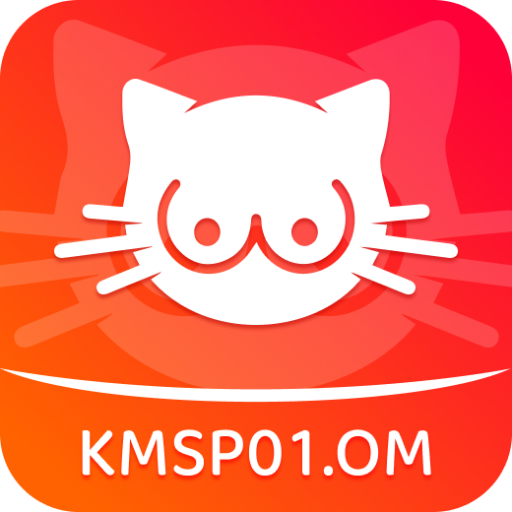
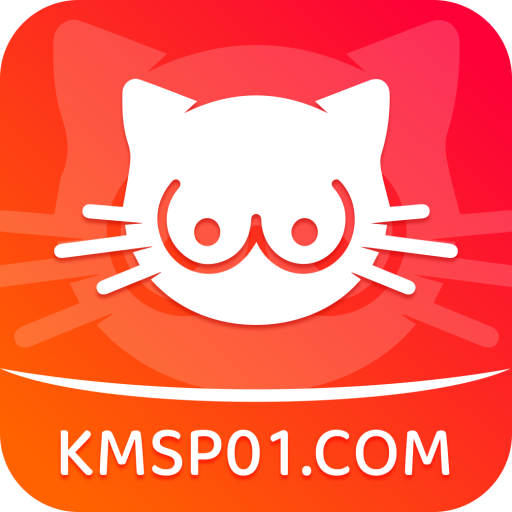
icon更换、分享跳转

Changed region(s): [[0.0938, 0.8125, 0.875, 0.9375]]

diff --git a/lib/app/modules/home/home_mine_center/views/home_mine_center_view.dart b/lib/app/modules/home/home_mine_center/views/home_mine_center_view.dart
@@ -44,100 +44,103 @@ class HomeMineCenterView extends GetView<HomeMineCenterController> {
             body: Stack(alignment: Alignment.topCenter, children: [
               Image.asset(R.assetsImgBgMineTop,
                   width: screen.screenWidth, fit: BoxFit.cover),
-              SingleChildScrollView(
-                  scrollDirection: Axis.vertical,
-                  child: Container(
-                      width: screen.screenWidth,
-                      margin:
-                          EdgeInsets.only(top: screen.paddingTop + Dimens.pt45),
-                      child: Column(children: [
-                        _mineTopUtilsBuilder(logic, theme),
-                        SizedBox(height: Dimens.pt50),
-                        _buildVipButtonView(theme),
-                        SizedBox(height: Dimens.pt30),
-                        _buildMoreUtilsBtnView(),
-                        SizedBox(height: Dimens.pt30),
-                        _buildChangeIconView(logic),
-                        SizedBox(height: Dimens.pt30),
-                        Padding(
-                            padding:
-                                EdgeInsets.symmetric(horizontal: Dimens.pt25),
-                            child: Column(children: [
-                              CoverBanner(
-                                  //广告minSwiperAds
-                                  aspectRatio: 700 / 198,
-                                  radius: Dimens.pt20,
-                                  adsType: AdsType.homeSwiperAds,
-                                  onItemClick: (Advertise model) {
-                                    AppPages.jumpRouter(
-                                        path: model.href, id: model.id);
-                                  }),
-                              SizedBox(height: Dimens.pt30),
-                              Container(
-                                decoration: BoxDecoration(
-                                    color: Colors.white.withOpacity(.05),
-                                    borderRadius:
-                                        BorderRadius.circular(Dimens.pt20)),
-                                child: Column(children: [
-                                  _buildMineUtilsBtnView(
-                                      title: "设置",
-                                      color: AppColors.textColorWhite,
-                                      onTap: () =>
-                                          Get.toNamed(Routes.SETTING_PAGE),
-                                      icon: R.assetsImgIconMineSetting),
-                                  _buildMineUtilsBtnView(
-                                      title: "绑定手机号",
-                                      color: AppColors.textColorWhite,
-                                      desc: "绑定成功送3元彩金！",
-                                      onTap: () => Get.toNamed(
-                                          Routes.BIND_MOBILE_PAGE,
-                                          arguments: {"type": "find"}),
-                                      icon: R.assetsImgIconMinePhone),
-                                  _buildMineUtilsBtnView(
-                                      onTap: () async {
-                                        await M3u8CacheManager().clearCache();
-                                        logic.cacheSize.value = 0;
-                                        showToast(msg: "缓存已清除");
-                                      },
-                                      title: "清除缓存",
-                                      color: AppColors.textColorWhite,
-                                      desc:
-                                          "${logic.cacheSize.toStringAsFixed(2)}MB",
-                                      icon: R.assetsImgIconMineDownload),
-                                  _buildMineUtilsBtnView(
-                                      onTap: () => Get.toNamed(
-                                          Routes.TICKET_MANAGE_PAGE,
-                                          arguments: {"type": 3}),
-                                      color: AppColors.textColorWhite,
-                                      title: "兑换码",
-                                      icon: R.assetsImgIconMineExchange),
-                                  _buildMineUtilsBtnView(
-                                      title: "检查更新",
-                                      color: AppColors.textColorWhite,
-                                      desc: "V${Pubspec.versionFull}",
-                                      onTap: () async {
-                                        ShareKeys shareKeys =
-                                            Get.find<ShareKeys>();
-                                        VersionBean? version =
-                                            shareKeys.version;
-                                        if (version != null &&
-                                            (version.hasNewVersion ?? false)) {
-                                          await showUpdateVersionDialog(
-                                              Get.context!,
-                                              version: shareKeys.version);
-                                        } else {
-                                          showToast(msg: "当前已经是最新版本");
-                                        }
-                                      },
-                                      icon: R.assetsImgIconMineCertif),
-                                ]),
-                              ),
+              Column(
+                children: [
+                  SizedBox(height:screen.paddingTop),
+                  Expanded(
+                    child: SingleChildScrollView(
+                        scrollDirection: Axis.vertical,
+                        child: Column(children: [
+                          _mineTopUtilsBuilder(logic, theme),
+                          SizedBox(height: Dimens.pt50),
+                          _buildVipButtonView(theme),
+                          SizedBox(height: Dimens.pt30),
+                          _buildMoreUtilsBtnView(),
+                          SizedBox(height: Dimens.pt30),
+                          _buildChangeIconView(logic),
+                          SizedBox(height: Dimens.pt30),
+                          Padding(
+                              padding:
+                                  EdgeInsets.symmetric(horizontal: Dimens.pt25),
+                              child: Column(children: [
+                                CoverBanner(
+                                    //广告minSwiperAds
+                                    aspectRatio: 700 / 198,
+                                    radius: Dimens.pt20,
+                                    adsType: AdsType.homeSwiperAds,
+                                    onItemClick: (Advertise model) {
+                                      AppPages.jumpRouter(
+                                          path: model.href, id: model.id);
+                                    }),
+                                SizedBox(height: Dimens.pt30),
+                                Container(
+                                  decoration: BoxDecoration(
+                                      color: Colors.white.withOpacity(.05),
+                                      borderRadius:
+                                          BorderRadius.circular(Dimens.pt20)),
+                                  child: Column(children: [
+                                    _buildMineUtilsBtnView(
+                                        title: "设置",
+                                        color: AppColors.textColorWhite,
+                                        onTap: () =>
+                                            Get.toNamed(Routes.SETTING_PAGE),
+                                        icon: R.assetsImgIconMineSetting),
+                                    _buildMineUtilsBtnView(
+                                        title: "绑定手机号",
+                                        color: AppColors.textColorWhite,
+                                        desc: "绑定成功送3元彩金！",
+                                        onTap: () => Get.toNamed(
+                                            Routes.BIND_MOBILE_PAGE,
+                                            arguments: {"type": "find"}),
+                                        icon: R.assetsImgIconMinePhone),
+                                    _buildMineUtilsBtnView(
+                                        onTap: () async {
+                                          await M3u8CacheManager().clearCache();
+                                          logic.cacheSize.value = 0;
+                                          showToast(msg: "缓存已清除");
+                                        },
+                                        title: "清除缓存",
+                                        color: AppColors.textColorWhite,
+                                        desc:
+                                            "${logic.cacheSize.toStringAsFixed(2)}MB",
+                                        icon: R.assetsImgIconMineDownload),
+                                    _buildMineUtilsBtnView(
+                                        onTap: () => Get.toNamed(
+                                            Routes.TICKET_MANAGE_PAGE,
+                                            arguments: {"type": 3}),
+                                        color: AppColors.textColorWhite,
+                                        title: "兑换码",
+                                        icon: R.assetsImgIconMineExchange),
+                                    _buildMineUtilsBtnView(
+                                        title: "检查更新",
+                                        color: AppColors.textColorWhite,
+                                        desc: "V${Pubspec.versionFull}",
+                                        onTap: () async {
+                                          ShareKeys shareKeys =
+                                              Get.find<ShareKeys>();
+                                          VersionBean? version =
+                                              shareKeys.version;
+                                          if (version != null &&
+                                              (version.hasNewVersion ?? false)) {
+                                            await showUpdateVersionDialog(
+                                                Get.context!,
+                                                version: shareKeys.version);
+                                          } else {
+                                            showToast(msg: "当前已经是最新版本");
+                                          }
+                                        },
+                                        icon: R.assetsImgIconMineCertif),
+                                  ]),
+                                ),
 
-                              // _buildDayTimeChange(theme, logic),
-                              SizedBox(
-                                  height: screen.bottomNavBarH + Dimens.pt40)
-                            ]))
-                      ])))
+                                // _buildDayTimeChange(theme, logic),
+                                SizedBox(
+                                    height: screen.bottomNavBarH + Dimens.pt40)
+                              ]))
+                        ])),
+                  ),
+                ],
+              )
             ])));
   }
 

diff --git a/lib/app/dialog/common_dialog.dart b/lib/app/dialog/common_dialog.dart
@@ -206,7 +206,7 @@ Future showShareAccountDialog() {
   return Get.bottomSheet(
       backgroundColor: Color(0xFF2C2C34),
       Container(
-          height: Dimens.pt800,
+          height: Dimens.pt600,
           padding: EdgeInsets.symmetric(
               horizontal: Dimens.pt30, vertical: Dimens.pt30),
           decoration: BoxDecoration(
@@ -226,32 +226,32 @@ Future showShareAccountDialog() {
                       Icon(Icons.close, color: Colors.white, size: Dimens.pt36))
             ]),
             SizedBox(height: Dimens.pt60),
-            Row(mainAxisAlignment: MainAxisAlignment.center, children: [
-              GestureDetector(
-                  onTap: () {
-                    Clipboard.setData(
-                            ClipboardData(text: userInfo.inviteUrl ?? ""))
-                        .then((_) {
-                      ApiRes.addTaskRecord();
-                      showToast(msg: "文本已复制到剪切板");
-                    });
-                    Get.back();
-                  },
-                  child: Column(children: [
-                    Image.asset(R.assetsImgIconShareLink, width: Dimens.pt120),
-                    SizedBox(height: Dimens.pt10),
-                    Row(children: [
-                      Text("下载地址",
-                          style: TextStyle(
-                              fontSize: Dimens.pt28, color: Colors.white)),
-                      Image.asset(R.assetsImgIconShareVideo, width: Dimens.pt40)
-                    ])
-                  ]))
-            ]),
+            // Row(mainAxisAlignment: MainAxisAlignment.center, children: [
+            //   GestureDetector(
+            //       onTap: () {
+            //         Clipboard.setData(
+            //                 ClipboardData(text: userInfo.inviteUrl ?? ""))
+            //             .then((_) {
+            //           ApiRes.addTaskRecord();
+            //           showToast(msg: "文本已复制到剪切板");
+            //         });
+            //         Get.back();
+            //       },
+            //       child: Column(children: [
+            //         Image.asset(R.assetsImgIconShareLink, width: Dimens.pt120),
+            //         SizedBox(height: Dimens.pt10),
+            //         Row(children: [
+            //           Text("下载地址",
+            //               style: TextStyle(
+            //                   fontSize: Dimens.pt28, color: Colors.white)),
+            //           Image.asset(R.assetsImgIconShareVideo, width: Dimens.pt40)
+            //         ])
+            //       ]))
+            // ]),
             SizedBox(height: Dimens.pt60),
-            Text("分享APP给好友,每邀请10人,送3天VIP",
-                style: TextStyle(fontSize: Dimens.pt28, color: Colors.white)),
-            SizedBox(height: Dimens.pt60),
+            // Text("分享APP给好友,每邀请10人,送3天VIP",
+            //     style: TextStyle(fontSize: Dimens.pt28, color: Colors.white)),
+            // SizedBox(height: Dimens.pt60),
             Row(mainAxisAlignment: MainAxisAlignment.center, children: [
               GestureDetector(
                   onTap: () {

diff --git a/lib/plugins_utils/VideoPlayer/src/fijk_tiktok_panel.dart b/lib/plugins_utils/VideoPlayer/src/fijk_tiktok_panel.dart
@@ -334,7 +334,8 @@ class _FijkTiktokPanelState extends State<FijkTiktokPanel> {
                       icon: R.assetsImgIconVideoShareShort,
                       onTap: () async {
                         await player.pause();
-                        showShareAccountDialog();
+                        // showShareAccountDialog();
+                        Get.toNamed(Routes.INVITED_PAGE);
                       },
                       text: "分享")),
               _buildVideoNumber(

diff --git a/lib/app/modules/video_player_page/views/video_player_page_view.dart b/lib/app/modules/video_player_page/views/video_player_page_view.dart
@@ -484,7 +484,8 @@ class VideoPlayerPageView extends GetView<VideoPlayerPageController> {
 
                   _buildVideoNumber(
                       icon: R.assetsImgIconVideoShare,
-                      onTap: () => showShareAccountDialog(),
+                      // onTap: () => showShareAccountDialog(),
+                      onTap: ()=> Get.toNamed(Routes.INVITED_PAGE),
                       text: "分享送VIP"),
                 ]),
           ),

diff --git a/lib/app/data/pubspec.dart b/lib/app/data/pubspec.dart
@@ -11,11 +11,11 @@ class Pubspec {
 
   static const publish_to = 'none';
 
-  static const versionFull = '1.0.6+13';
+  static const versionFull = '1.0.6+14';
 
   static const version = '1.0.6';
 
-  static const versionSmall = '13';
+  static const versionSmall = '14';
 
   static const versionMajor = 1;
 
